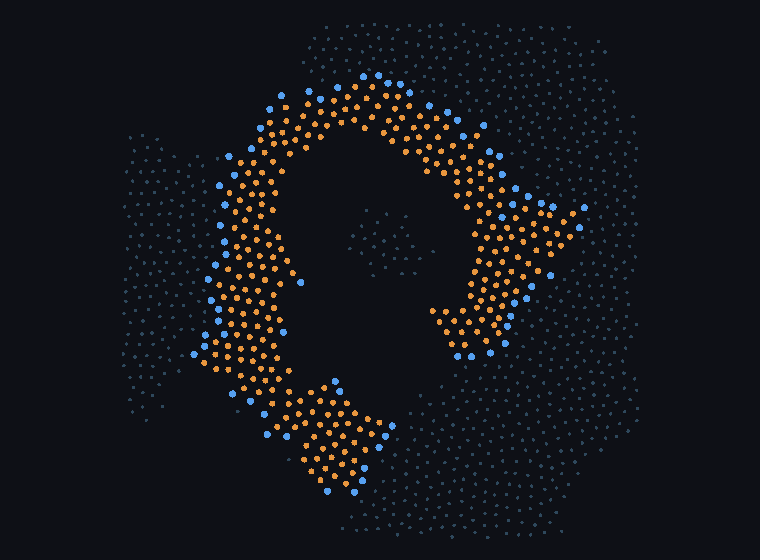
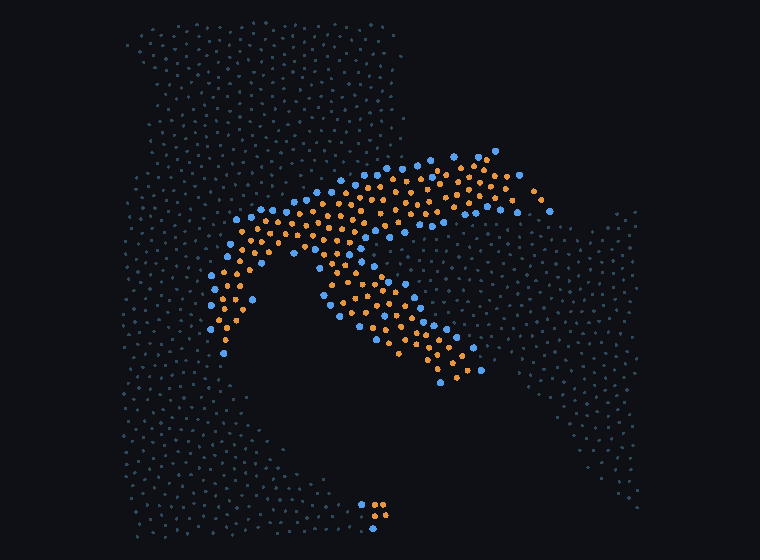
vivarium: third closure failure (arc unrolls in the fluid regime); fix a latent assay crash
ARC AT kT = 0.45, TWO TAILS, 100000 inertial steps -- PREDICTION FALSIFIED:

    step   largest   R_mid   shell CV   lumen water
       0     70/70    5.68      0.283            22
   50000     68/70    7.53      0.510             5
  100000     68/70    8.93      0.412             4

The render shows the arc UNROLLED into a broad shallow band, ends far apart, one detached fragment.
Lumen water 22 -> 4. Closure has now failed in three distinct regimes: gel (kT 0.17, sits open), too
hot (kT 0.55, tears 70 -> 38), and fluid-and-intact (kT 0.45, unrolls). In every case the arc EXPANDED
-- the behaviour of a membrane whose preferred curvature is flatter than the planted one. Fluidity is
necessary but NOT sufficient for closure.

LATENT CRASH KILLED A 150000-STEP RUN AT 18750 STEPS. ring_assay.classify evaluates rh[outer].max()
with outer = slice(i_core + 1, len(rr)), which is EMPTY whenever the tail-density peak lands in the
outermost radial bin. Any aggregate reaching rmax produces that, i.e. every dispersed or spanning
configuration. It survived the whole life of the assay because all three calibration gates use COMPACT
aggregates, whose tail peak is never at the edge -- the same blind spot that let a spanning network be
called HOLLOW. Guarded, and a test now plants that exact geometry.

Launched with falsification stated first: ring vs arc energy at (kT = 0.45, two tails) over 5 seeds.
[…]

Changed region(s): [[0.1816, 0.0607, 0.8474, 0.9714], [0.1816, 0.6679, 0.2118, 0.7286], [0.2724, 0.1214, 0.3026, 0.1518]]

diff --git a/projects/vivarium/_closure_energy.py b/projects/vivarium/_closure_energy.py
@@ -1,0 +1,67 @@
+"""Is closure still thermodynamically favoured in the FLUID regime? Ring vs arc, with error bars.
+
+The 74 kT preference for the closed ring was measured at kT = 0.17 with FOUR-tail lipids -- i.e. in
+the gel, with a lipid that is not the one now known to be fluid. It was also one seed per arm. Three
+closure attempts have since failed, and in every one the arc EXPANDED and flattened rather than
+closing, which is what a membrane does when its preferred curvature is flatter than the planted one.
+
+So the question is whether the energetic preference survives the move to (kT = 0.45, two tails).
+
+MEASURED. Planted ring and planted arc0.75 at identical N, box, density and temperature, relaxed and
+then averaged over the second half of the run, repeated over independent seeds. Reported as
+mean +- standard error of the per-lipid energy, and as the total difference in kT.
+
+FALSIFICATION, STATED BEFORE THE RUN
+    If E(ring) - E(arc) is not resolvably negative -- i.e. its magnitude does not exceed twice the
+    combined standard error -- then closure is NOT energetically preferred for this lipid at this
+    temperature, and the three failed closure attempts need no kinetic explanation at all. The
+    membrane would simply prefer to stay open, and the earlier 74 kT would be a property of the gel
+    phase rather than of the model.
+"""
+
+import sys
+
+import numpy as np
+
+from _mixture import build
+from field import Field
+from integrate import Inertial
+
+if __name__ == "__main__":
+    steps = int(sys.argv[1]) if len(sys.argv) > 1 else 30000
+    n_seed = int(sys.argv[2]) if len(sys.argv) > 2 else 5
+    kT = float(sys.argv[3]) if len(sys.argv) > 3 else 0.45
+    n_lip, L, phi = 70, 40.0, 0.55
+    n_water = int(round(phi * L * L / (np.pi * 0.25))) - 3 * n_lip
+
+    print(f"ring vs arc, N={n_lip} two-tail lipids, L={L}, kT={kT}, {n_seed} seeds, {steps} steps")
+    out = {}
+    for plant in ("ring", "arc0.75"):
+        per_seed = []
+        for sd in range(n_seed):
+            X, species, bonds, mols, wi, chains = build(n_lip, 0, n_water, L, 2, plant=plant, seed=sd)
+            f = Field(species, bonds, L)
+            ig = Inertial(f, kT, 8e-3, seed=200 + sd)
+            acc = []
+            for t in range(steps):
+                X = ig.step(X)
+                if t > steps // 2 and t % 500 == 0:
+                    acc.append(f.energy(X) / n_lip)
+            per_seed.append(float(np.mean(acc)))
+        m = float(np.mean(per_seed))
+        e = float(np.std(per_seed, ddof=1) / np.sqrt(n_seed))
+        out[plant] = (m, e)
+        print(f"  {plant:>8}  E/lipid {m:>9.3f} +- {e:.3f}", flush=True)
+
+    (mr, er), (ma, ea) = out["ring"], out["arc0.75"]
+    diff = (mr - ma) * n_lip
+    sig = np.sqrt(er ** 2 + ea ** 2) * n_lip
+    print(f"\nE(ring) - E(arc) = {diff:+.1f} +- {sig:.1f} eps  =  {diff / kT:+.0f} +- {sig / kT:.0f} kT")
+    resolved = abs(diff) > 2 * sig
+    if not resolved:
+        print("NOT RESOLVED: closure is not measurably preferred at this regime.")
+    elif diff < 0:
+        print("Closure IS energetically preferred; the failures are kinetic.")
+    else:
+        print("The OPEN state is preferred: the membrane wants to stay open, and no kinetic "
+              "explanation is needed.")

diff --git a/projects/vivarium/tests/test_field.py b/projects/vivarium/tests/test_field.py
@@ -158,3 +158,34 @@ def test_net_force_vanishes():
     f = Field(species, bonds, L)
     X = rng.uniform(-L / 2, L / 2, size=(40, 2))
     assert np.abs(f.forces(X).sum(axis=0)).max() < 1e-9
+
+
+def test_ring_assay_survives_a_core_peak_in_the_outermost_bin():
+    """classify() crashed on an empty radial slice, killing a 150000-step run at 18750 steps.
+
+    The `outer` slice is empty whenever the tail-density peak lands in the last radial bin, which any
+    aggregate reaching rmax produces -- routine for dispersed or spanning configurations. The bug was
+    latent for the whole life of the assay because its three calibration gates all use COMPACT
+    aggregates, whose tail peak is never at the edge.
+    """
+    import numpy as np
+
+    from ring_assay import classify
+
+    class View:
+        def __init__(self, X, mol, wi, L, pd):
+            self.X, self._mol, self._wi, self.L, self.pd = X, mol, wi, L, pd
+
+    rng = np.random.default_rng(0)
+    L = 20.0
+    # lipids pushed out to the box edge so the tail peak sits in the final bin
+    n_lip, nb = 12, 3
+    th = np.linspace(0, 2 * np.pi, n_lip, endpoint=False)
+    X = np.zeros((n_lip * nb + 40, 2))
+    mol = np.arange(n_lip * nb).reshape(n_lip, nb)
+    for b in range(nb):
+        X[mol[:, b]] = np.stack([np.cos(th), np.sin(th)], 1) * (0.5 * L - 0.2 - b * 0.4)
+    wi = np.arange(n_lip * nb, n_lip * nb + 40)
+    X[wi] = rng.uniform(-L / 2, L / 2, size=(40, 2))
+    verdict, _ = classify(View(X, mol, wi, L, 2))      # must not raise
+    assert verdict in {"HOLLOW", "filled", "other", "fragmented", "no tails"}

diff --git a/projects/vivarium/ring_assay.py b/projects/vivarium/ring_assay.py
@@ -118,8 +118,12 @@ def classify(e, sel=None, min_frac=0.90, lumen_min=3.0):
 
     inner = slice(0, i_core)
     outer = slice(i_core + 1, len(rr))
-    have_inner_heads = rh[inner].max() > 0.25 * rh.max() if i_core > 0 else False
-    have_outer_heads = rh[outer].max() > 0.25 * rh.max()
+    # Both slices can be EMPTY: `inner` when the tail peak is in the first radial bin, `outer` when it
+    # is in the last. The second case crashed a 150000-step assembly run at 18750 steps with
+    # "zero-size array to reduction operation maximum", losing the run. It fires whenever the aggregate
+    # reaches rmax, which a dispersed or spanning configuration does routinely.
+    have_inner_heads = bool(i_core > 0 and rh[inner].size and rh[inner].max() > 0.25 * rh.max())
+    have_outer_heads = bool(rh[outer].size and rh[outer].max() > 0.25 * rh.max())
 
     # lumen: water inside the innermost head band, expressed against bulk water density
     bulk = np.median(rw[rw > 0]) if (rw > 0).any() else 0.0

diff --git a/projects/vivarium/docs/AUTONOMOUS_LOG.md b/projects/vivarium/docs/AUTONOMOUS_LOG.md
@@ -169,3 +169,36 @@ were.
 time, ~15x the longest previous 2-D assembly run) is classified HOLLOW, and the largest aggregate
 stays below 0.9 of the lipids, then fluidity alone does not produce emergence either, and the next
 question is nucleation rate rather than membrane phase.
+
+---
+
+## 2026-08-18 tick — third closure failure, and a crash that killed a run
+
+**Arc at the fluid regime (kT = 0.45, two tails), 100000 steps — PREDICTION FALSIFIED.**
+
+| step | largest | R_mid | shell CV | lumen water |
+|---|---|---|---|---|
+| 0 | 70/70 | 5.68 | 0.283 | 22 |
+| 50000 | 68/70 | 7.53 | 0.510 | 5 |
+| 100000 | 68/70 | 8.93 | 0.412 | 4 |
+
+The render at 100000 shows the arc UNROLLED into a broad shallow band with the ends far apart and one
+detached fragment. It did not close; it flattened. Lumen water 22 -> 4.
+
+Three closure attempts have now failed in three different regimes -- gel (kT 0.17, sits open), too hot
+(kT 0.55, tears in two), fluid-and-intact (kT 0.45, unrolls). **Fluidity is not sufficient for
+closure.** In every case the arc EXPANDED, which is what a membrane does when its preferred curvature
+is flatter than the planted one.
+
+**RUN LOST TO A LATENT CRASH.** The 150000-step assembly run died at 18750 steps:
+`ring_assay.classify` does `rh[outer].max()` where `outer = slice(i_core + 1, len(rr))`, which is
+EMPTY when the tail-density peak lands in the outermost radial bin -- routine for any aggregate that
+reaches rmax, i.e. dispersed or spanning configurations. Latent for the whole life of the assay
+because its three calibration gates all use COMPACT aggregates whose tail peak is never at the edge.
+Guarded, and gated by a new test that plants exactly that geometry.
+
+**Next, falsification stated first.** The 74 kT preference for the closed ring was measured at
+kT = 0.17 with FOUR-tail lipids -- in the gel, with a different lipid, one seed per arm. Re-measuring
+ring vs arc at (kT = 0.45, two tails) over 5 seeds. If E(ring) - E(arc) is not resolvably negative at
+2 sigma, then closure is NOT preferred for this lipid at this temperature, the three failures need no
+kinetic explanation, and the earlier 74 kT is a property of the gel phase rather than of the model.
